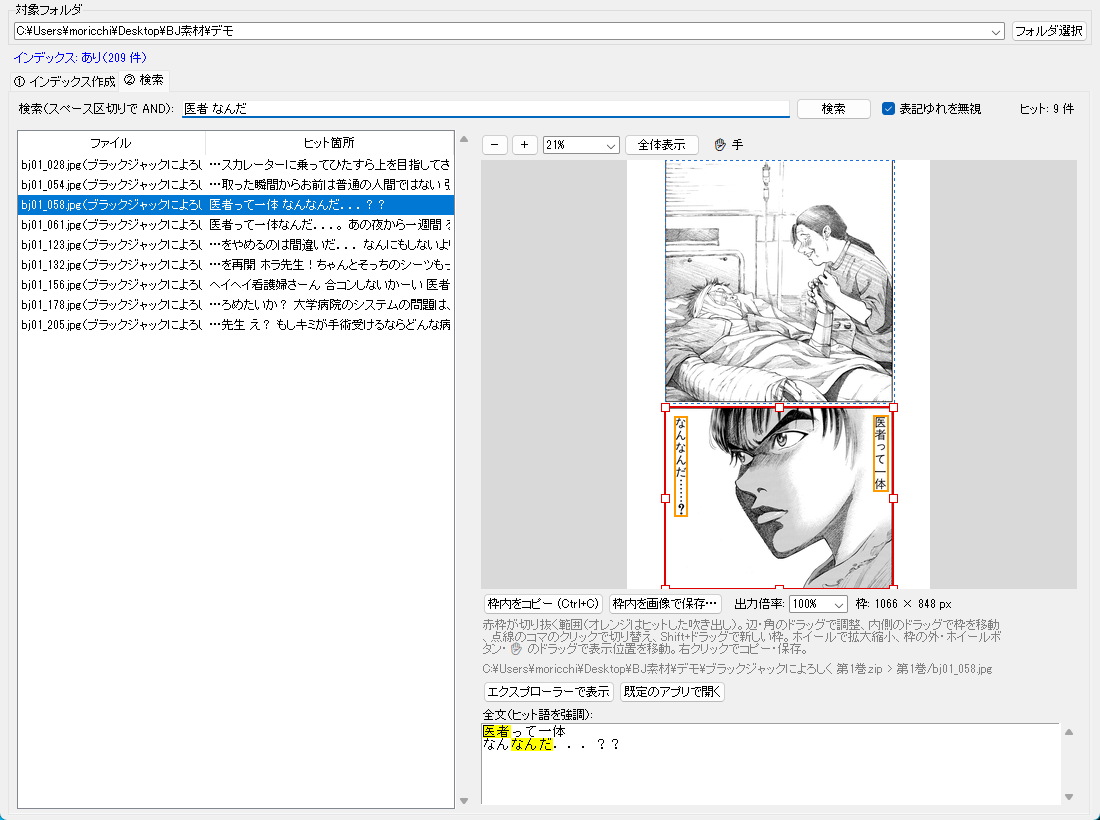
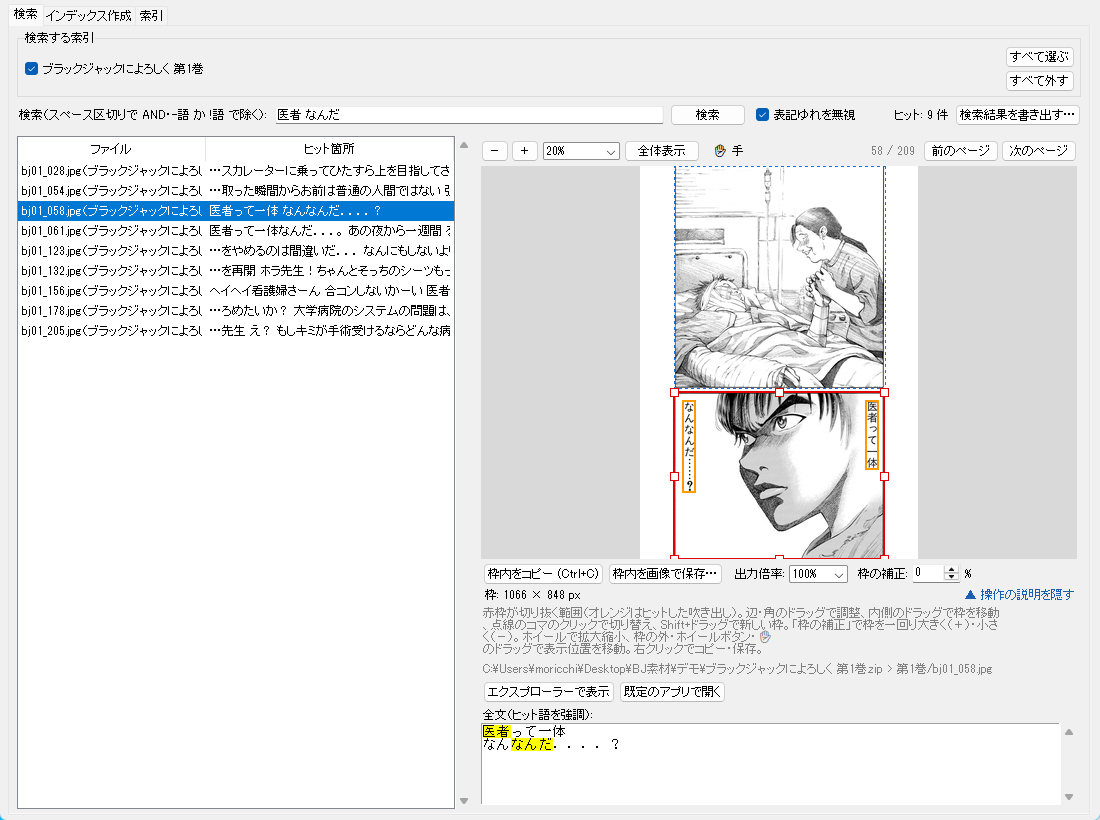
v1.17: README のスクリーンショットを最新の画面に撮り直す
- docs/images/search.png を v1.16 の画面（タブの並び・検索する索引）で撮り直し
- 検索語・ヒット数は前と同じ（医者 なんだ / 9 件）

Changed region(s): [[0.0, 0.0, 0.9891, 0.7927]]

diff --git a/komasagashi.py b/komasagashi.py
@@ -26,7 +26,7 @@ OCR エンジンは mokuro / manga-ocr-base を使用する。
 from __future__ import annotations
 
 # 修正・機能追加のたびに 0.01 ずつ上げる。変更内容は CHANGELOG.md に書く。
-__version__ = "1.16"
+__version__ = "1.17"
 
 import hashlib
 import importlib.util

diff --git a/CHANGELOG.md b/CHANGELOG.md
@@ -3,6 +3,12 @@
 修正・機能追加のたびにバージョンを 0.01 ずつ上げます。
 アプリのバージョンはウィンドウのタイトルに表示されます。
 
+## v1.17（2026-10-04）
+
+### 変更
+- README のスクリーンショット（`docs/images/search.png`）を v1.16 以降の画面（タブの並び・検索タブの「検索する索引」）に撮り直した。
+  検索語・ヒット数（「医者 なんだ」で 9 件）は前と同じ。アプリの動きは変わらない
+
 ## v1.16（2026-10-04）
 
 ### 変更

diff --git a/README.md b/README.md
@@ -10,6 +10,7 @@
 
 「医者 なんだ」で検索し、ヒットした吹き出し（オレンジ）を含むコマが自動で赤枠に囲まれたところ。
 書庫（zip）の中の 209 ページから 9 ページがヒットしています。
+左上の「検索する索引」でチェックを入れた索引から検索します（複数の作品をまとめて検索することもできます）。
 
 <sub>画面内の漫画：ブラックジャックによろしく　佐藤秀峰（[二次利用フリー](https://densho810.com/free/)）</sub>
 
